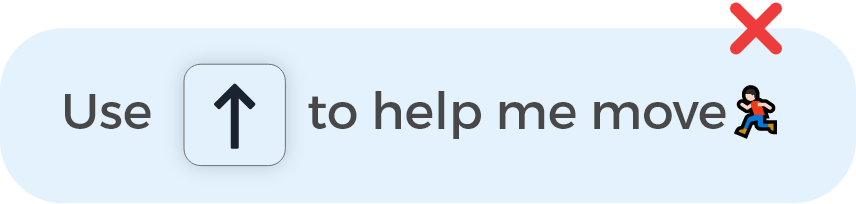
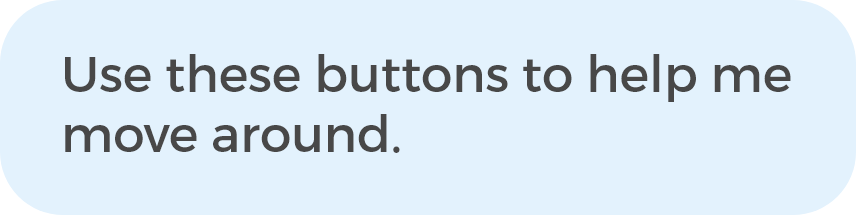
add helping messages to levels 3 and 4

Changed region(s): [[0.0607, 0.2353, 0.9416, 0.7353], [0.0, 0.0, 1.0, 0.3529], [0.2126, 0.7941, 0.3341, 0.8235]]

diff --git a/Assets/Scripts/Game Menus Controllers/MessagesController.cs b/Assets/Scripts/Game Menus Controllers/MessagesController.cs
@@ -36,7 +36,7 @@ public class MessagesController : MonoBehaviour {
             messagesLevel1.Add("L1M7");
         }
 
-        if (SceneManager.GetActiveScene().name == "Planet1-Level1")
+        if (LevelsMenuController.level == 2)
         {
             messagesLevel1.Add("L2M1");
             messagesLevel1.Add("L2M2");
@@ -44,6 +44,23 @@ public class MessagesController : MonoBehaviour {
             messagesLevel1.Add("L2M4");
             messagesLevel1.Add("L2M5");
             messagesLevel1.Add("L2M6");
+        }
+
+        if (LevelsMenuController.level == 3)
+        {
+            messagesLevel1.Add("L3M1");
+            messagesLevel1.Add("L3M2");
+            messagesLevel1.Add("L3M3");
+            messagesLevel1.Add("L3M4");
+        }
+
+        if (LevelsMenuController.level == 4)
+        {
+            messagesLevel1.Add("L4M1");
+            messagesLevel1.Add("L4M2");
+            messagesLevel1.Add("L4M3");
+            messagesLevel1.Add("L4M4");
+            messagesLevel1.Add("L4M5");
         }
 
         image = GameObject.Find("Image");
@@ -138,6 +155,18 @@ public class MessagesController : MonoBehaviour {
         if (LevelsMenuController.level == 1)
         {
             SceneManager.LoadScene("Spacestation-Level1");
+        }
+        if (LevelsMenuController.level == 2)
+        {
+            SceneManager.LoadScene("Planet1-Level1");
+        }
+        if (LevelsMenuController.level == 3)
+        {
+            SceneManager.LoadScene("Planet2-Level1");
+        }
+        if (LevelsMenuController.level == 4)
+        {
+            SceneManager.LoadScene("Planet3-Level1");
         }
     }
 }

diff --git a/Assets/Scripts/endingMessage.cs b/Assets/Scripts/endingMessage.cs
@@ -21,7 +21,24 @@ public class endingMessage : MonoBehaviour {
 
     public void goToNextLevel()
     {
-        SceneManager.LoadScene(SceneManager.GetActiveScene().buildIndex + 1);
+        if (LevelsMenuController.level == 1)
+        {
+            LevelsMenuController.level = 2;
+            SceneManager.LoadScene("Pop up messages");
+        }
+
+        if (LevelsMenuController.level == 2)
+        {
+            LevelsMenuController.level = 3;
+            SceneManager.LoadScene("Pop up messages");
+        }
+
+        if (LevelsMenuController.level == 3)
+        {
+            LevelsMenuController.level = 4;
+            SceneManager.LoadScene("Pop up messages");
+        }
+
     }
 
     public void goToLevelsMenu()

diff --git a/Assets/Scripts/Game Menus Controllers/LevelsMenuController.cs b/Assets/Scripts/Game Menus Controllers/LevelsMenuController.cs
@@ -15,19 +15,19 @@ public class LevelsMenuController : MonoBehaviour {
 
     public void planet1ButtonClicked()
     {
-        SceneManager.LoadScene("Planet1-Level1");
+        SceneManager.LoadScene("Pop up messages");
         level = 2;
     }
 
     public void planet3ButtonClicked()
     {
-        SceneManager.LoadScene("Planet2-Level1");
+        SceneManager.LoadScene("Pop up messages");
         level = 3;
     }
 
     public void planet4ButtonClicked()
     {
-        SceneManager.LoadScene("Planet3-Level1");
+        SceneManager.LoadScene("Pop up messages");
         level = 4;
     }
 
